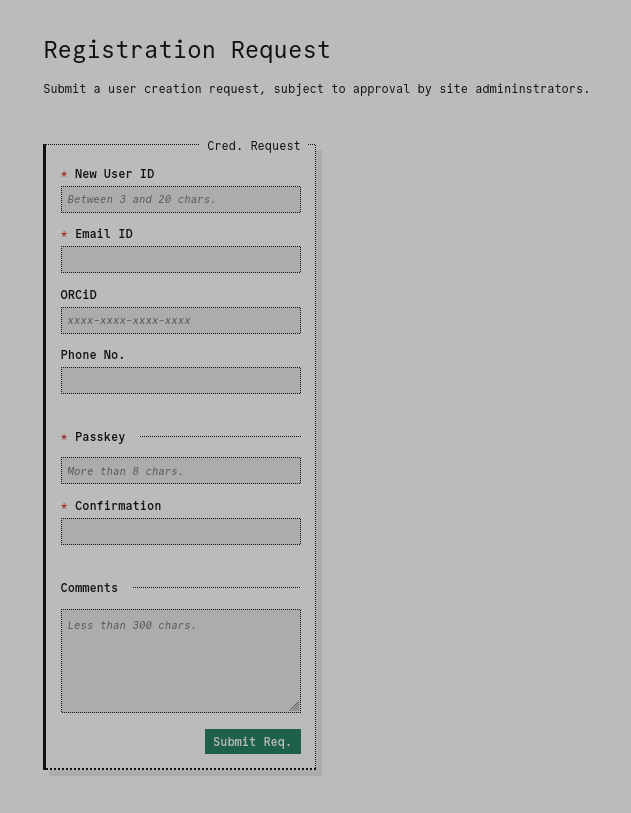
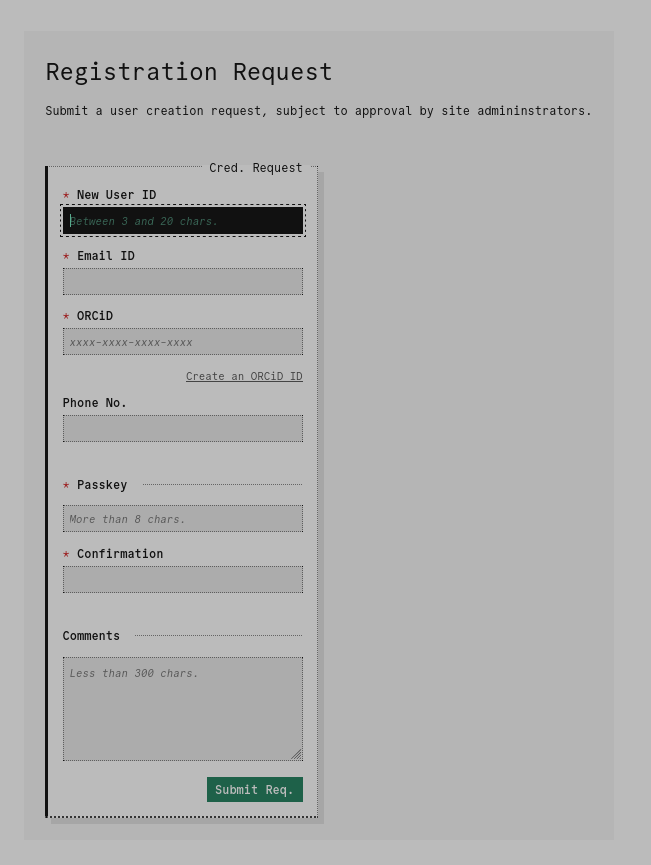
:memo: update screenshots and add ranker documentation

diff --git a/docs/user.md b/docs/user.md
@@ -3,7 +3,6 @@
 Welcome to the VHC. This guide will walk you through the dashboard website and its various sub-applications.
 
 ## Contents
-
 - [User Documentation](#user-documentation)
 	- [Contents](#contents)
 	- [General](#general)
@@ -15,6 +14,12 @@ Welcome to the VHC. This guide will walk you through the dashboard website and i
 		- [Registration](#registration)
 		- [Login](#login)
 		- [Management](#management)
+	- [Apps](#apps)
+		- [Ranker](#ranker)
+			- [Input](#input)
+			- [Paraphrases (LLM Responses)](#paraphrases-llm-responses)
+				- [Ranker \& Pass/Fail](#ranker--passfail)
+			- [Review \& Submit](#review--submit)
 
 ## General
 
@@ -48,16 +53,16 @@ The dashboard uses an entirely local auth. system, with support for [administrat
 
 ### Registration
 
-Registration on the dashboard is processed in the form of a request, subject to approval by site administrators. To register, you must navigate to `/register`, accessible via. the link on either the login portal or the **Quick Links** section of the footer. 
+Registration on the dashboard is processed in the form of a request, subject to approval by site administrators. To register, you must navigate to `/register`, accessible via either the link on either the login portal or entry in the **Quick Links** section of the footer. 
 
 A registrant is prompted for the following details (mandatory fields in bold):
 
 - **Unique user ID**
 - **Unique email ID**
-- ORCiD
+- **ORCiD ID**
 - Phone no.
 - **Passkey**
-- Comments (for the approving authority)
+- Comments (for the benefit of the approving authority)
 
 > [!NOTE]
 > Once set, the ORCiD cannot be updated
@@ -68,7 +73,10 @@ You will be notified via flash message following a successful registration reque
 
 ### Login
 
-Registered users may navigate to `/login` to begin an authenticated session. Users who have submitted a registration request but have not yet been approved will not be allowed to log in, and will be notified as such.
+Registered users may navigate to `/login` to begin an authenticated session. 
+
+> [!NOTE]
+> Users who have submitted a registration request but have not yet been approved will not be allowed to log in, and will be notified as such.
 
 ![Login](images/login.png)
 
@@ -77,10 +85,47 @@ Registered users may navigate to `/login` to begin an authenticated session. Use
 Registered users may navigate to `/user` to view and manage their user instance. Users are allowed to edit their:
 
 - Email ID
-- ORCiD
 - Phone no.
 
-> [!NOTE]
-> Once set, the ORCiD cannot be updated
-
 ![User](images/user.png)
+
+Users may also update their password - there is no provision as of now for account recovery; ensure you do not forget your passkey.
+
+![User](images/password.png)
+
+## Apps
+
+### Ranker
+
+![User](images/ranker-basic.png)
+
+Users with access to the ranker will assess and rank LLM paraphrases of a given input prescription text (black box, top left). Users will assign a numerical rank and a pass/fail status to each paraphrase, the latter status indicating a completely untenable LLM output. The ranker will automatically enforce any ranking/status constraints.
+
+The full ranker view for a given input is called a "ballot" for that input.
+
+#### Input
+
+![User](images/ranker-input.png)
+
+The raw transcribed prescription text.
+
+#### Paraphrases (LLM Responses)
+
+![User](images/ranker-responses.png)
+
+Individual paraphrases, (anonymously) labelled by LLM. Paraphrases produced by "LLM-A" do not necessarily refer to the same LLM across ballots.
+
+##### Ranker & Pass/Fail
+
+![User](images/ranker-actions.png)
+
+Two actions per paraphrase, each a radio-group of choices. Left for numerical rank, right for pass/fail status. The rightmost dot-matrix display indicates the rank assigned to the paraphrase, with "?" signifying no rank assigned, and green/red signifying pass/fail respectively.
+
+> [!NOTE]
+> See the border of the ranker for keyboard shortcuts.
+
+#### Review & Submit
+
+![User](images/ranker-review.png)
+
+Review your final ranking, with `x > y` indicating `x` is ranked higher than `y`. Failing entries are underlined in red. The submit button will be enabled upon completion of all rankings for the ballot.
